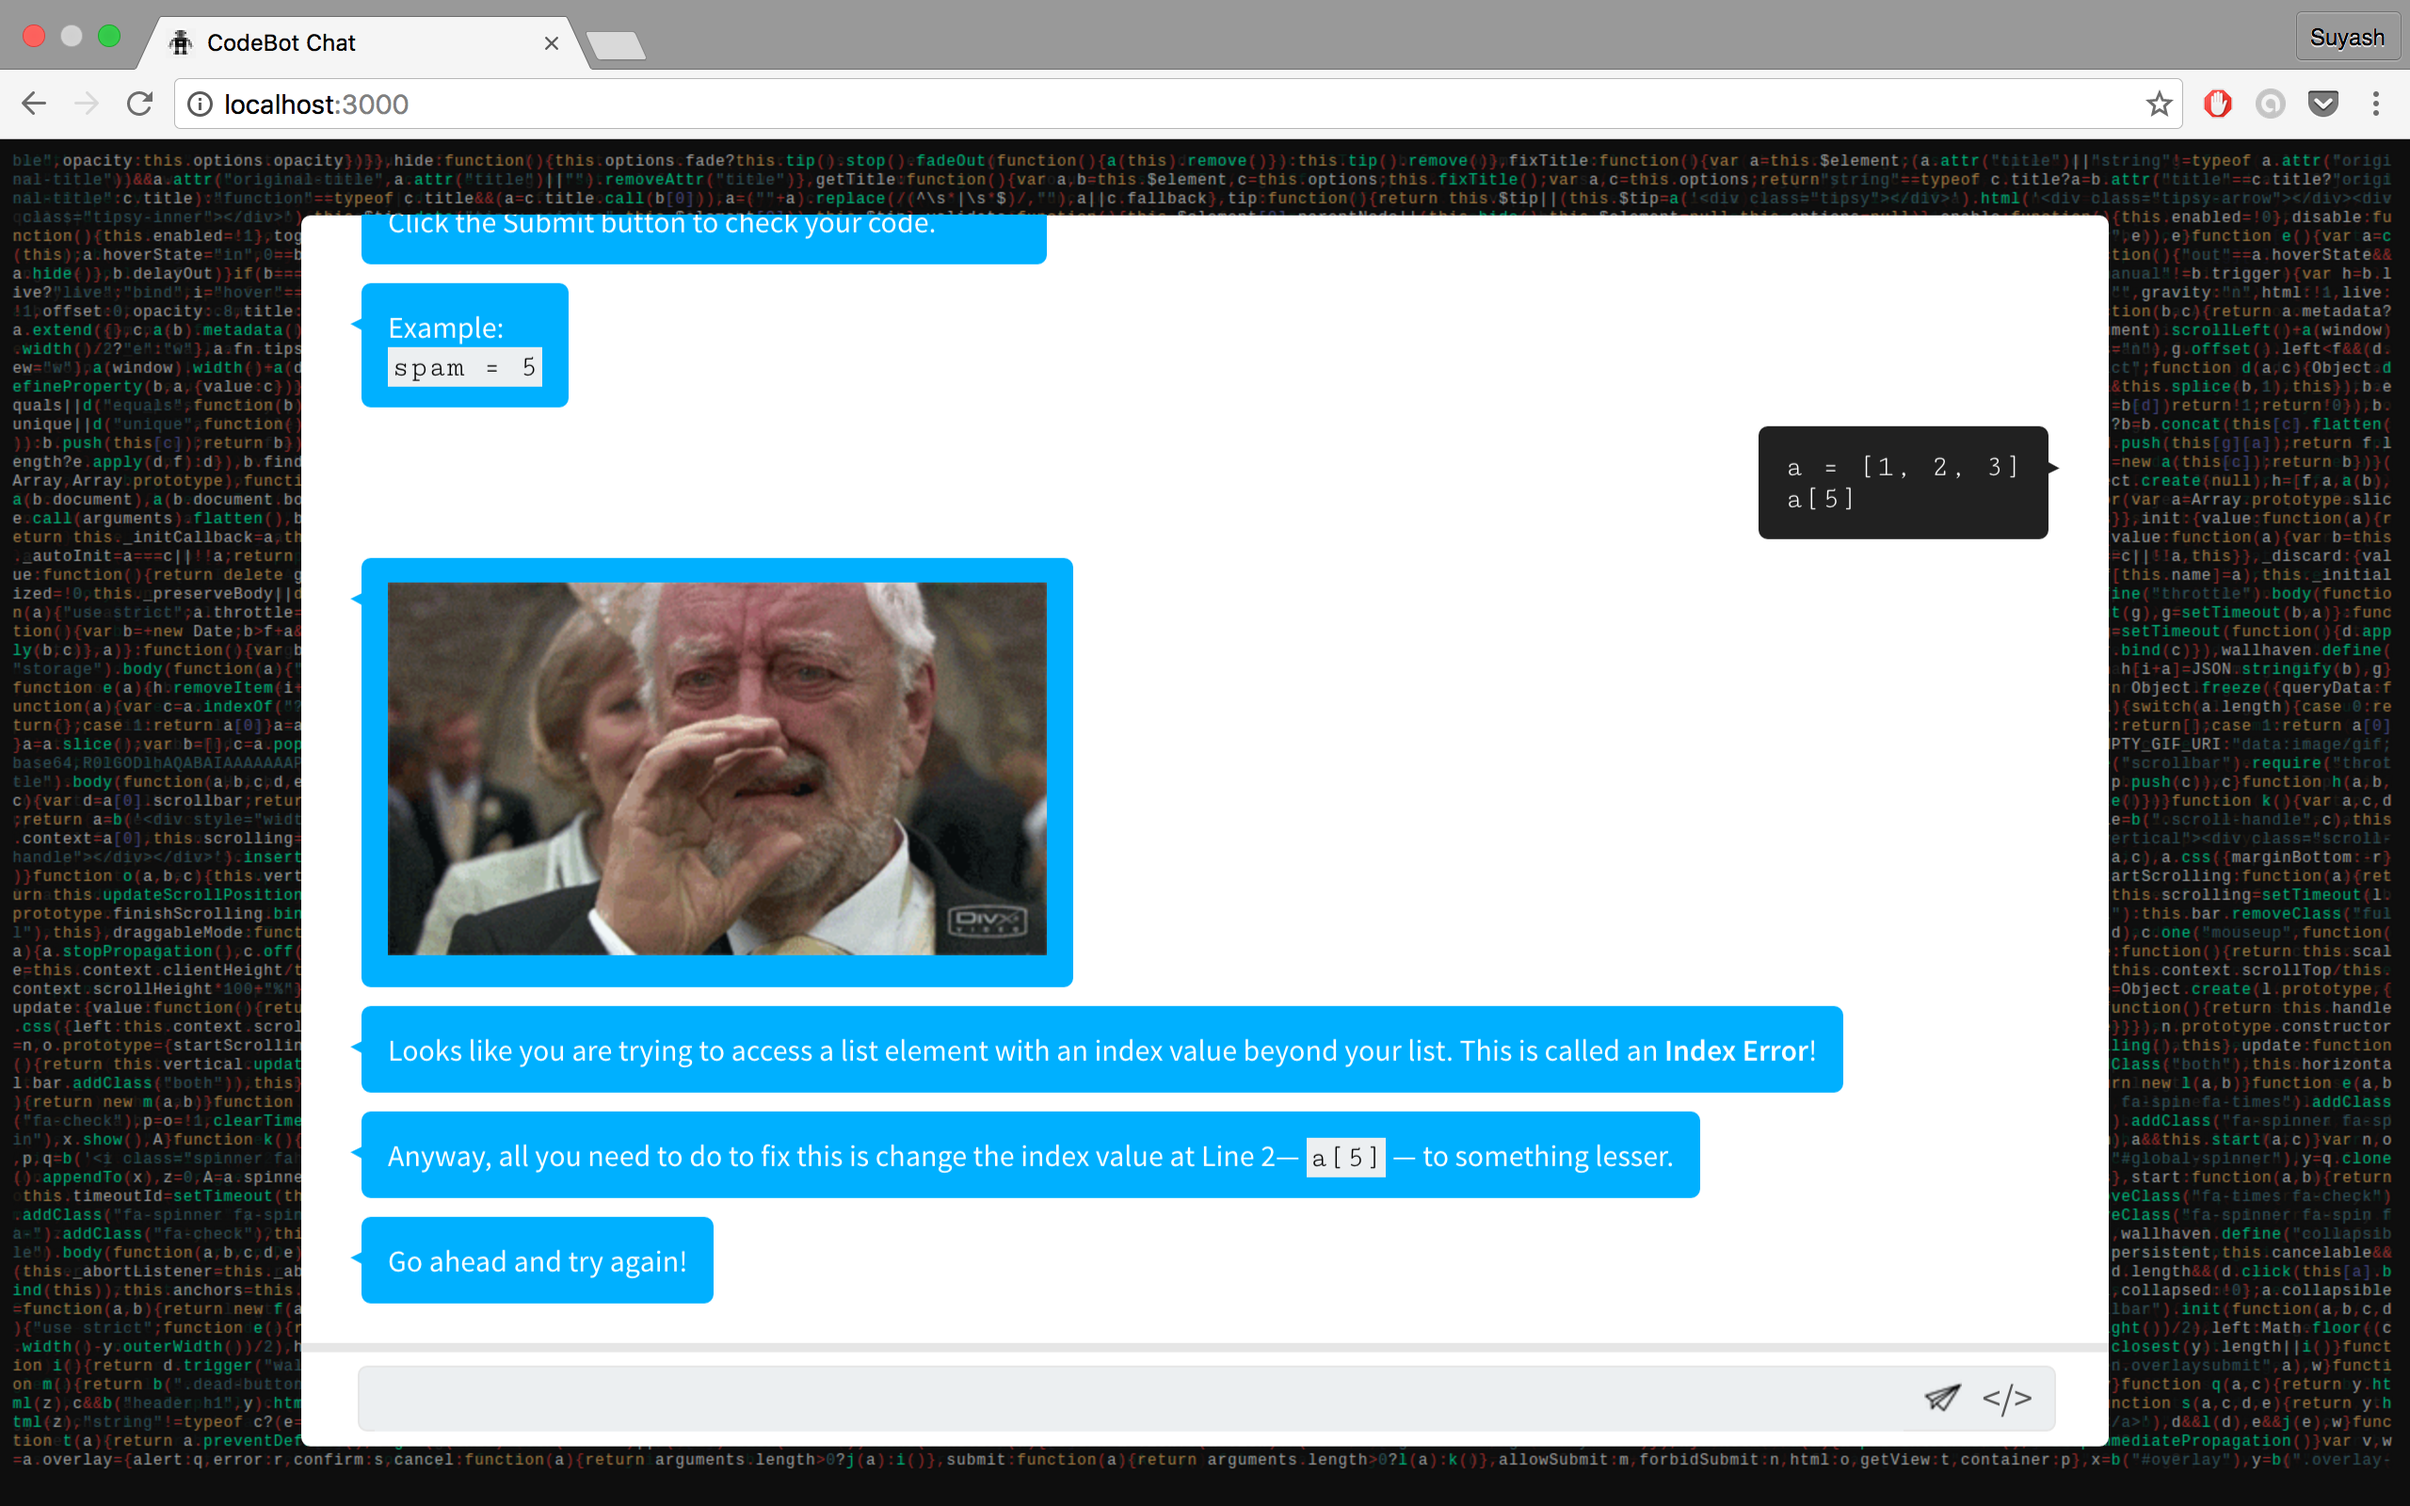
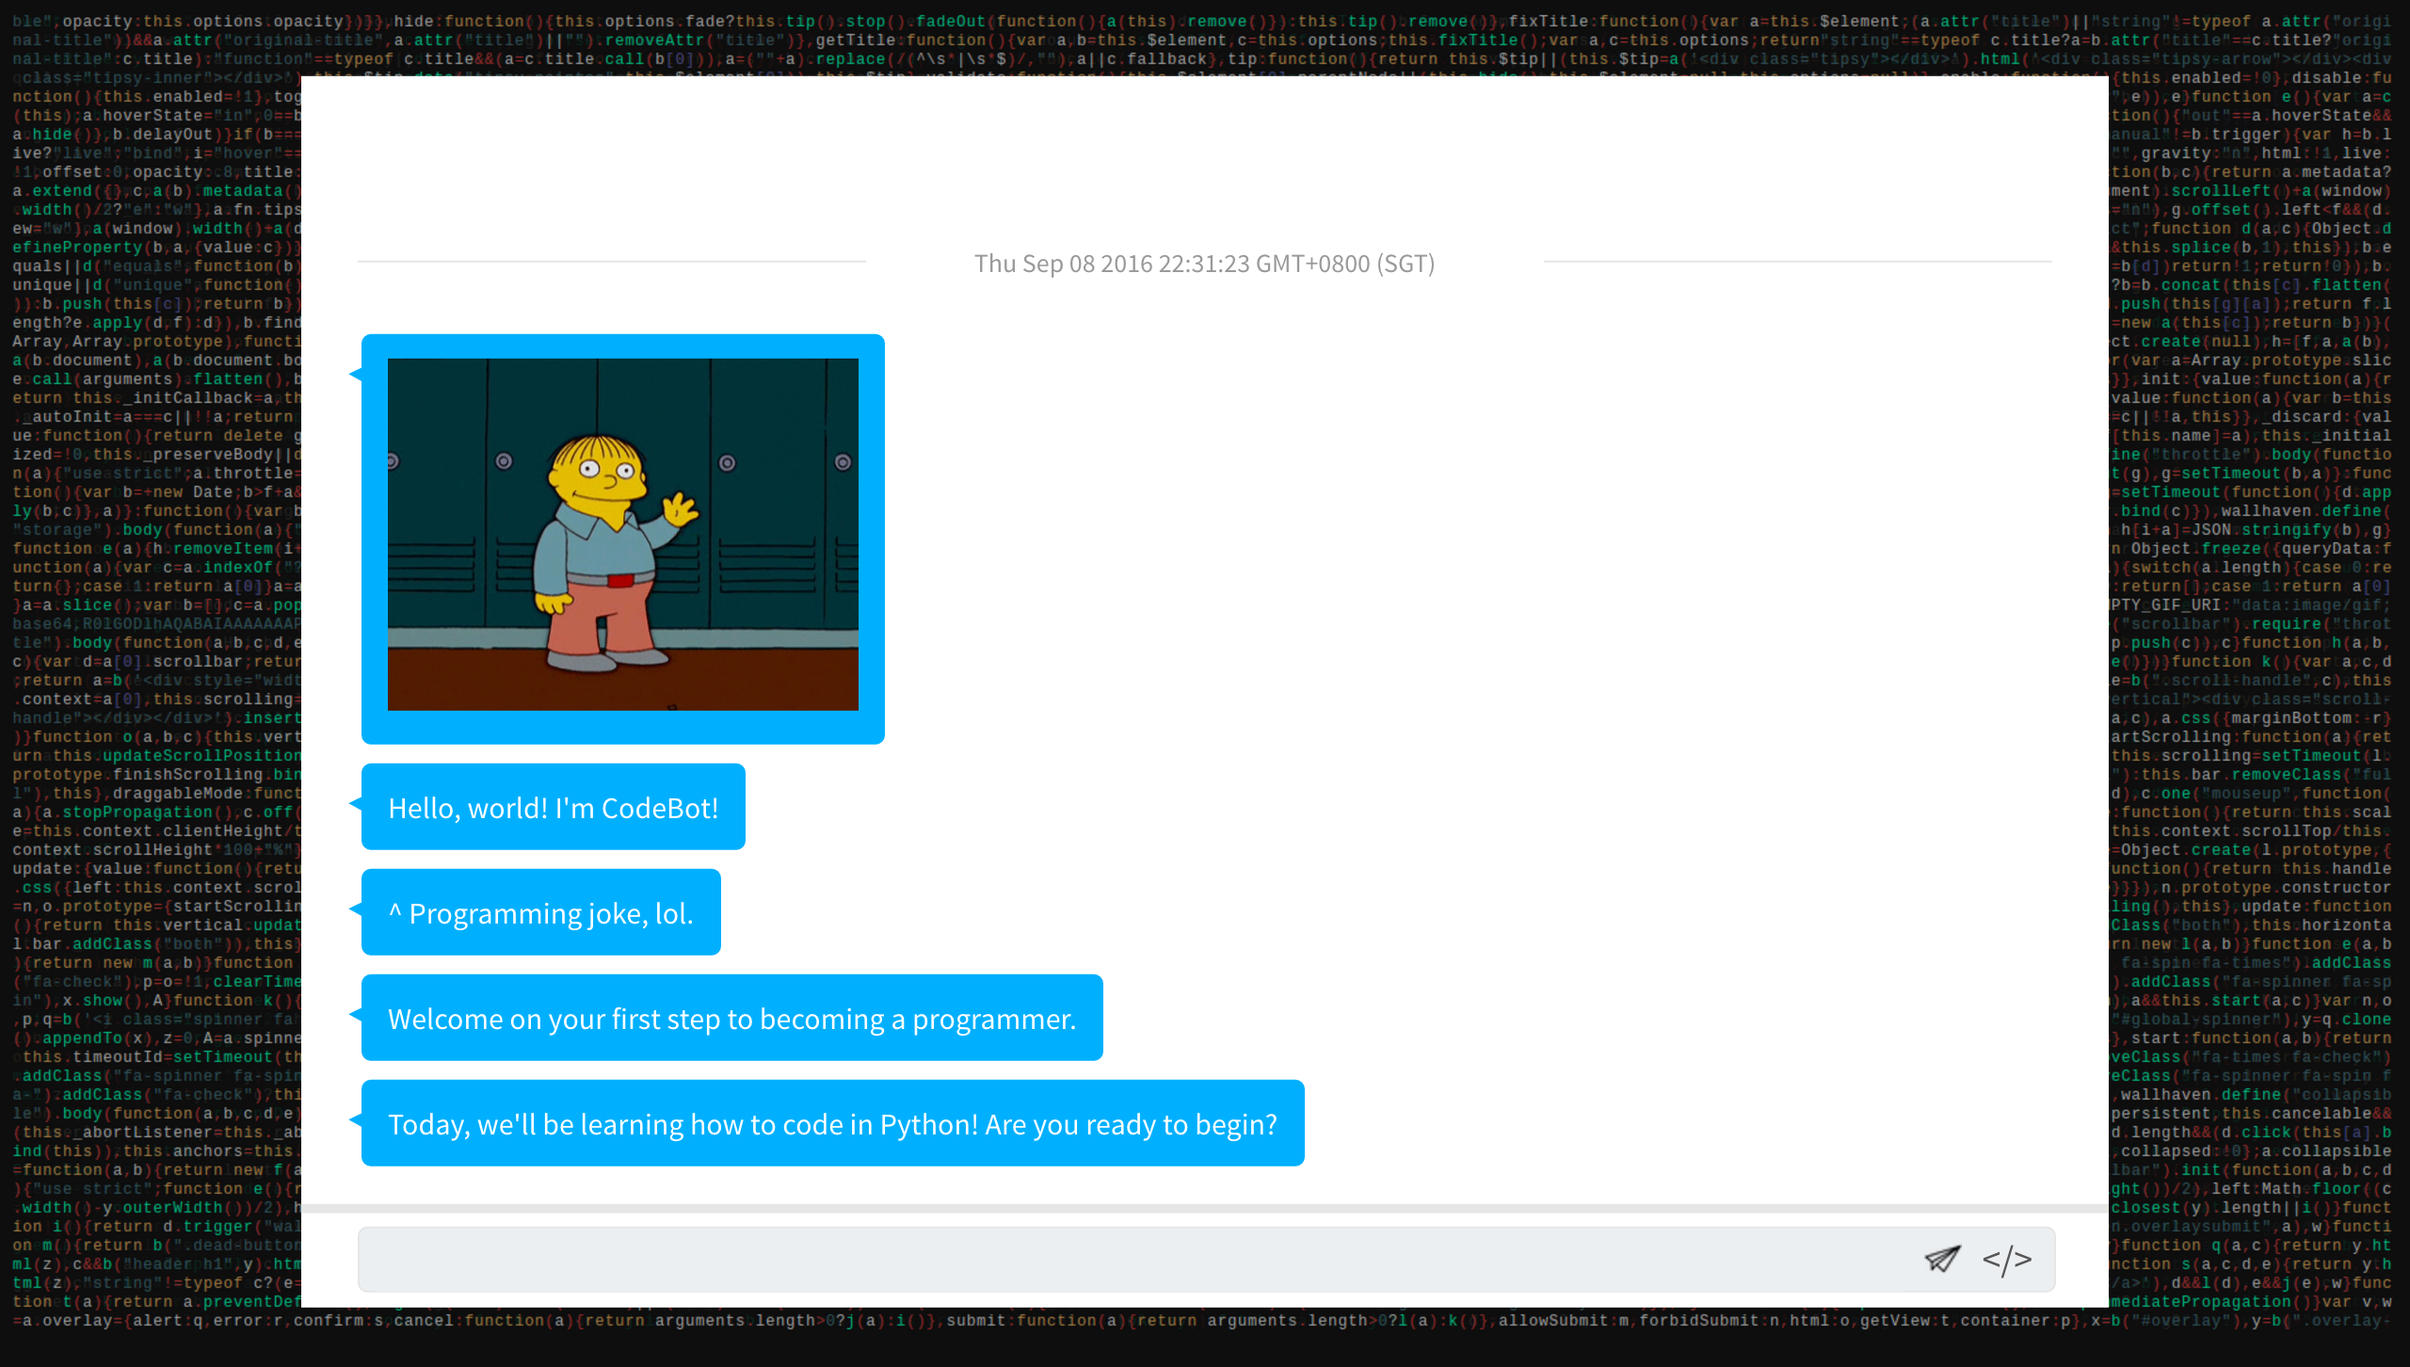
Added Setup Instructions & Updated Screenshot

diff --git a/README.md b/README.md
@@ -2,28 +2,47 @@
 
 Created for and during the Facebook Singapore Hackathon 2016.
 
-CodeBot is a chatbot that helps beginners learn how to code. To make the otherwise daunting task of learning how to code for the first time easier, CodeBot incorporates witty replies, GIFs &amp; human-readable errors to create an incredibly fun experience for a complete novice. Currently, it goes through a few basic exercises in Python (adapted from [Codecademy](https://www.codecademy.com/learn/python)).
+CodeBot is a chatbot that helps beginners learn how to code. To make the otherwise daunting task of learning how to code for the first time easier, CodeBot incorporates witty replies, GIFs &amp; human-readable errors to create an incredibly fun experience for a complete novice. Currently, it goes through a few basic exercises in Python (adapted from [Codecademy](https://www.codecademy.com/learn/python)) while answering any questions on the way. The back-end runs on Node.js, MongoDB & [api.ai](https://api.ai) while the front-end is written in vanilla HTML, CSS & JavaScript.
 
 ![Screenshot of CodeBot](/z-Screenshots/1.png)
 
-### Tech Stack:
-
-- Node.js
-- MongoDB
-- [api.ai](https://api.ai)
-- Vanilla HTML, CSS & JS (for front-end)
-
-### Team:
+### Team
 
 1. [Suyash Lakhotia](https://github.com/SuyashLakhotia)
 2. [Nikhil Venkatesh](https://github.com/nikv96)
 3. [Chaitanya Joshi](https://github.com/chaitjo)
 4. [Bobby Ranjan](https://github.com/bbbranjan)
 
+## Setup
+
+### Prerequisites
+
+- Install [Node.js & npm](https://nodejs.org/en/download/)
+	- Update `npm` using `$ npm install npm -g`
+- Install [MongoDB](https://docs.mongodb.com/master/installation/)
+- Install [RoboMongo](https://robomongo.org/download) (Optional)
+
+#### Homebrew Commands (for Mac)
+
+```
+$ brew install node              # Install Node.js
+$ brew install mongodb           # Install MongoDB
+$ brew cask install robomongo    # Install RoboMongo (Optional)
+$ brew services start mongodb    # Start MongoDB
+```
+
+### Running CodeBot
+
+1. Clone this repo or download the .zip [here](https://github.com/SuyashLakhotia/CodeBot/archive/master.zip).
+2. Navigate to this repo on your terminal and run `$ npm install` to install all the dependencies.
+3. Start MongoDB using the instructions [here](https://docs.mongodb.com/manual/installation/).
+4. Initialize the database using `$ node dbCreator.js`.
+5. Run CodeBot on `http://localhost:3000/` using `$ node index.js`.
+
 ## TODO
 
 - [ ] Post-Hackathon Cleanup of Code & Git History
-- [ ] Add Setup Instructions to README
+- [x] ~~Add Setup Instructions to README~~
 - [ ] Refine Curriculum / Database Content
 - [ ] Comment Out Debug Statements on Node Server
 - [ ] Split `index.js` into Separate Files
